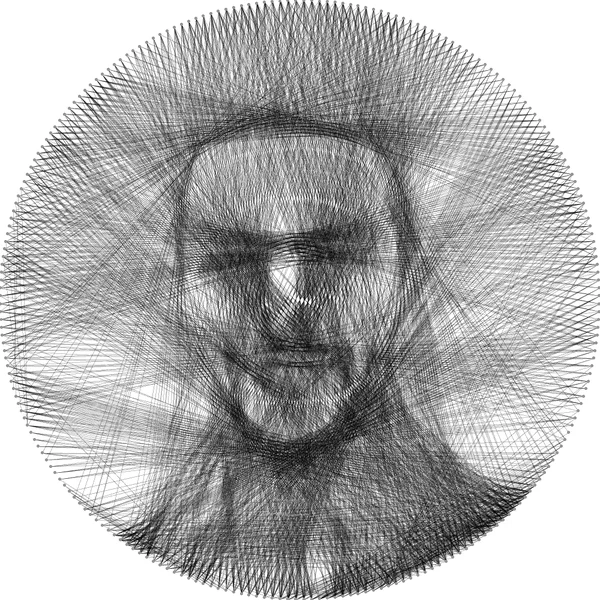
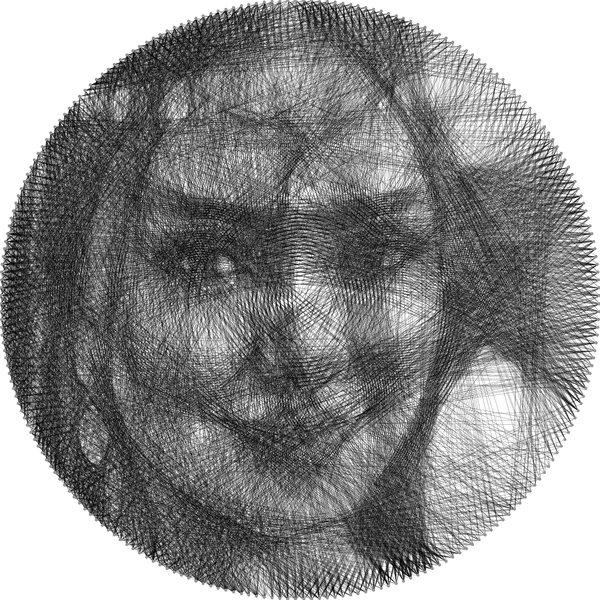
Carte « Pour soi » : femme en caftan, rendu en fil plus net
Claude-Session: https://claude.ai/code/session_01Y6Wof34Sh3N1L4T1nCyUUr

diff --git a/docs/changelog.md b/docs/changelog.md
@@ -46,3 +46,4 @@ Nouveaux textes sous `home.*` (fr, en, ar).
 - Accueil : légende « La star algérienne : Salah Aougrout » sur la carte « Pour ses parents » (fr, en, ar).
 - Album produit : 15 visuels (Ali La Pointe, dévidoir, puis chaque portrait en fil suivi de sa photo : Salah Aougrout, Larbi Ben M'hidi, homme en veste bleue, fillette, couple, chat) ; textes alternatifs fr/en/ar.
 - Étapes sur téléphone : onglets sur deux rangées de trois, de même largeur, pour éviter que les libellés se chevauchent (vérifié aussi avec une grande taille de texte).
+- Accueil et album : la carte « Pour soi » prend la photo de la femme en caftan ; rendu en fil net (photo légèrement contrastée et accentuée avant calcul, variante contraste, poids de ligne 0,18, 3 158 lignes).
